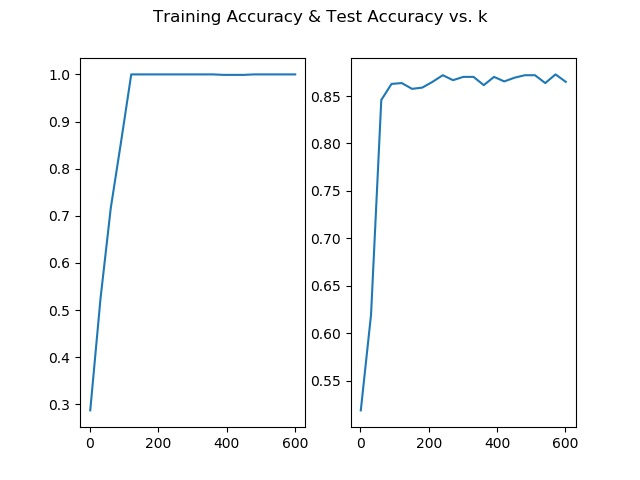
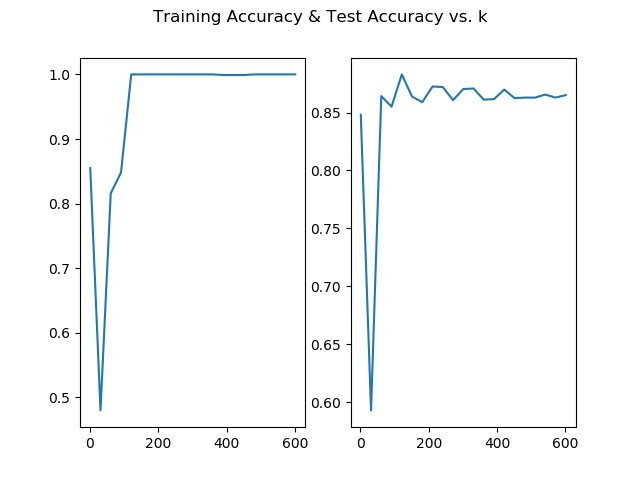
Ran more experiments

diff --git a/spam_classifier.py b/spam_classifier.py
@@ -8,7 +8,6 @@ from k_nearest_neighbor import *
 from baseline import *
 from util import * 
 import matplotlib.pyplot as plt
-import time
 # Change these variables to indicate which methods to use 
 baseline = False
 linear_rg = False
@@ -19,8 +18,14 @@ QDA = False
 LDA = False
 logistic_reg = False
 decision_tr = False 
-kNN = False
+kNN = True
+with np.load("email_vector_training.npz") as trainingData:
+    X_training = trainingData["arr_0"]
+    y_training = trainingData["arr_1"]
 
+with np.load("email_vector_test.npz") as testData:
+    X_test = testData["arr_0"]
+    y_test = testData["arr_1"]
 def dimension_search(classifier, dr_method, X_training, y_training, X_test, y_test, min_k = 1, max_k = 600, interval = 5, save = False, name = None):
     # This function searches for the best number of dimensions k that yields the highest test accuracies.
     # Input: classifier - an instantiated classifier that has method train() and predict()
@@ -61,6 +66,26 @@ def dimension_search(classifier, dr_method, X_training, y_training, X_test, y_te
         plt.show()
     return ks[np.argmax(np.array(test_accuracies))]
 
+def test_knn_hyperparameter():
+
+
+    training_accuracies = []
+    test_accuracies = []
+    ks = []
+    for i in range(1, 201):
+        knn_classifier = KNearestNeighbor()
+        knn_classifier.train(X_training, y_training)
+        pred_train = knn_classifier.predict(X_training, i).reshape(-1, 1)
+        pred_test = knn_classifier.predict(X_test, i).reshape(-1, 1)
+        training_accuracies.append(1 - np.sum(np.absolute(y_training - pred_train)/X_training.shape[0]))
+        test_accuracies.append(1 - np.sum(np.absolute(y_test - pred_test))/X_test.shape[0])
+        ks.append(i)
+    fig, axs = plt.subplots(1, 2)
+    axs[0].plot(ks, training_accuracies)
+    axs[1].plot(ks, test_accuracies)
+    fig.suptitle("Training Accuracy & Test Accuracy vs. Number of Neighbors")
+    plt.savefig("KNN_k.jpg")
+    plt.show()
 
 def main():
     # X is an n x d matrix, where n is the number of samples and d is the number of features.
@@ -76,7 +101,7 @@ def main():
 
     # Change these variables to select which dimensionality reduction method to use, 
     # and the number of dimension k to reduce to.
-    PCA_flag = True
+    PCA_flag = False
     CCA_flag = False
     Random_flag = False
     k = 31
@@ -167,11 +192,12 @@ def main():
     if kNN:
         print(">>>>>>>>>>>" + "K Nearest Neighbors" + ">>>>>>>>>>>")
         knn_classifier = KNearestNeighbor()
-        start_time = time.time()
         knn_classifier.train(X_training, y_training)
-        print("Finished training in ", (time.time() - start_time)/60.0, " minutes")
-        pred_train = knn_classifier.predict(X_training, 5)
-        print(pred_train)
+        pred_train = knn_classifier.predict(X_training, 5).reshape(-1, 1)
+        pred_test = knn_classifier.predict(X_test, 5).reshape(-1, 1)
+        print("Training error is " + str(np.linalg.norm(y_training - pred_train)**2/X_training.shape[0]))
+        print("Test Error is " + str(np.linalg.norm(y_test - pred_test)**2/X_test.shape[0]))
+        print("Test accuracy is " + str(1 - np.sum(np.absolute(y_test - pred_test))/X_test.shape[0]))
 def run_all_dimensionality_test():
     with np.load("email_vector_training.npz") as trainingData:
         X_training = trainingData["arr_0"]
@@ -180,7 +206,7 @@ def run_all_dimensionality_test():
     with np.load("email_vector_test.npz") as testData:
         X_test = testData["arr_0"]
         y_test = testData["arr_1"]
-    names = ["QDA"]
+    names = ["KNN"]
     for name in names:
         if name == "LS_SVM":
             classifier = LS_SVM()
@@ -192,6 +218,8 @@ def run_all_dimensionality_test():
             classifier = LDA_Classifier()
         elif name == "logistic_reg":
             classifier = logistic_regression_classifier()
+        elif name == "KNN":
+            classifier = KNearestNeighbor()
         print(name)
         for dr_method in ["PCA", "CCA", "Random"]:
             print(dr_method)
@@ -199,4 +227,5 @@ def run_all_dimensionality_test():
             print(dimension_search(classifier, dr_method, X_training, y_training, X_test, y_test, min_k = 1, max_k = 601, interval = 30, save = True, name = name))
 if __name__ == '__main__':
     run_all_dimensionality_test()
-    #main()
+    # main()
+    # test_knn_hyperparameter()
